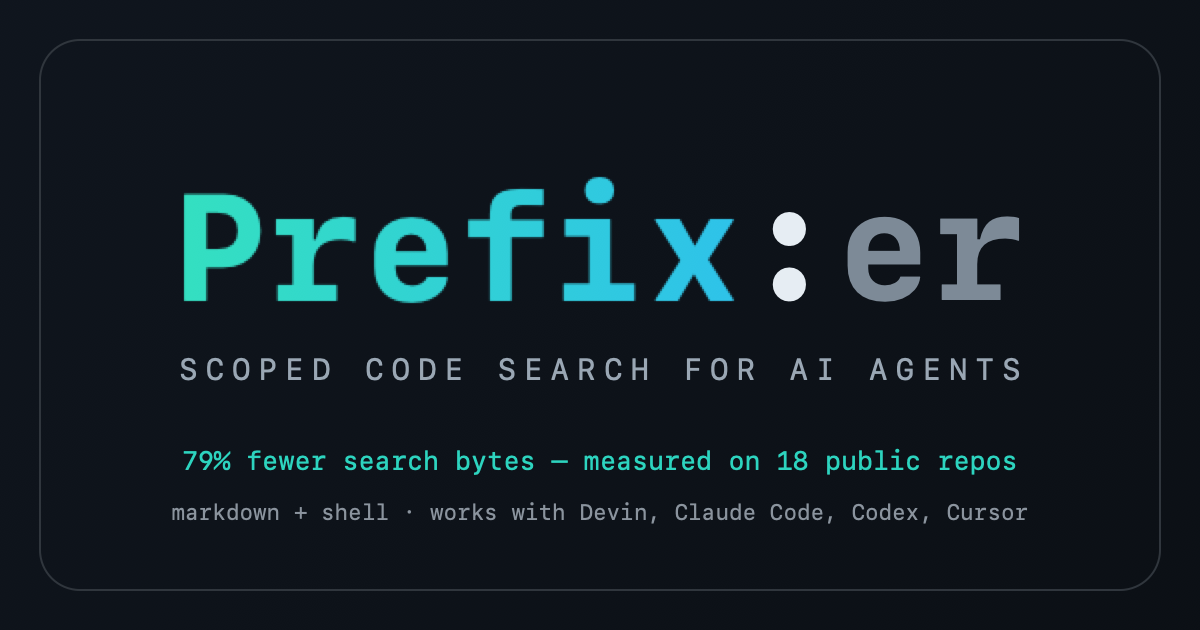
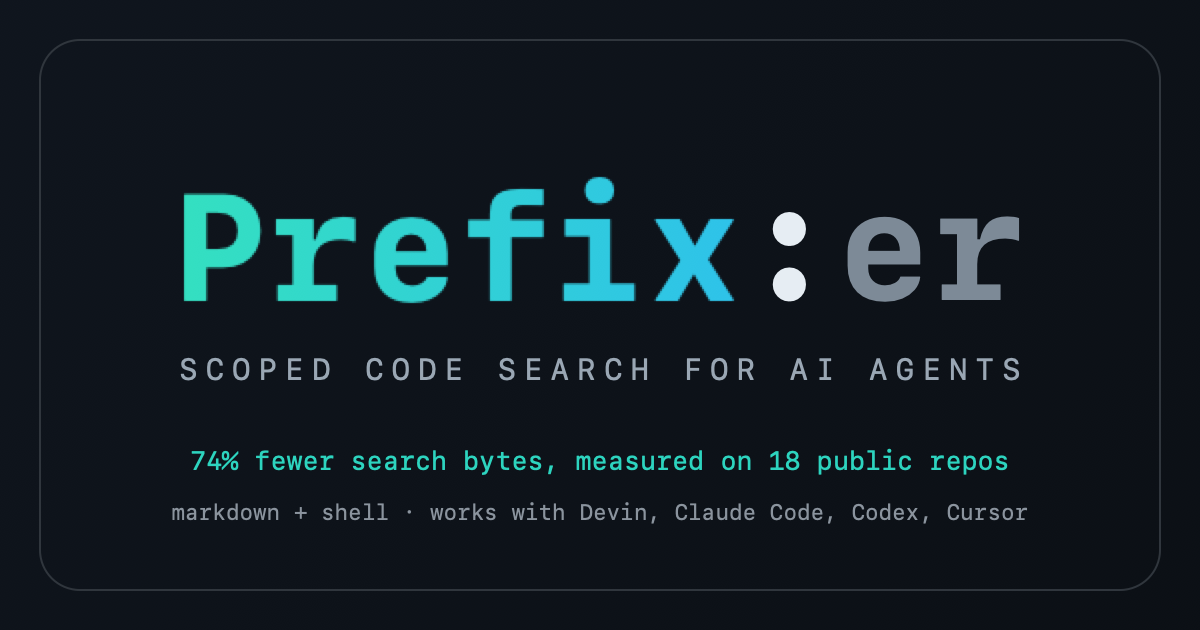
docs: sync the corpus claim with the published eval numbers
README, the landing page, llms.txt, vs-graphify, both eval charts, and the og image all quoted 79% from an older corpus run while the committed eval/RESULTS.md reports 74% (CI refreshes it weekly and never touches marketing copy). Everything now cites the published table: 74% mean, 55-91% range, 135 namespaces, per-repo rows rebuilt. AGENTS.md gains an invariant listing every surface that quotes the corpus so the next refresh does not strand them again.

Changed region(s): [[0.1542, 0.6937, 0.8633, 0.754]]

diff --git a/docs/index.html b/docs/index.html
@@ -3,8 +3,8 @@
 <head>
 <meta charset="utf-8">
 <meta name="viewport" content="width=device-width, initial-scale=1">
-<title>Prefixer: scoped codebase search for AI agents · 79% fewer search tokens</title>
-<meta name="description" content="Prefixer is an open-source agent skill that gives AI coding agents a namespace map for scoped codebase search. Fewer tokens, faster searches: measured 79% mean search bytes saved across 18 public repos. Works with Devin, Windsurf, Claude Code, Codex, and Cursor.">
+<title>Prefixer: scoped codebase search for AI agents · 74% fewer search tokens</title>
+<meta name="description" content="Prefixer is an open-source agent skill that gives AI coding agents a namespace map for scoped codebase search. Fewer tokens, faster searches: measured 74% mean search bytes saved across 18 public repos. Works with Devin, Windsurf, Claude Code, Codex, and Cursor.">
 <meta name="keywords" content="prefixer, agent skill, code search, codebase search, namespace map, AI coding agent, scoped search, token efficiency, reduce agent tokens, prompt caching, Devin skill, Claude Code skill, Cursor skill, Codex skill, Windsurf skill, agent skills, codebase navigation, repo map, graphify alternative, llm token cost">
 <meta name="robots" content="index,follow">
 <meta name="author" content="Albisourous">
@@ -12,12 +12,12 @@
 <link rel="icon" type="image/svg+xml" href="icon.svg">
 <meta property="og:type" content="website">
 <meta property="og:title" content="Prefixer · scoped code search skill for AI agents">
-<meta property="og:description" content="A small namespace map that keeps agent searches inside the right part of the tree. Measured 79% mean search-output bytes saved across an 18-repo public corpus.">
+<meta property="og:description" content="A small namespace map that keeps agent searches inside the right part of the tree. Measured 74% mean search-output bytes saved across an 18-repo public corpus.">
 <meta property="og:url" content="https://albisourous.github.io/prefixer/">
 <meta property="og:image" content="https://albisourous.github.io/prefixer/og-image.png">
 <meta property="og:image:width" content="1200">
 <meta property="og:image:height" content="630">
-<meta property="og:image:alt" content="Prefixer: scoped code search for AI agents. 79% fewer search bytes, measured on 18 public repos.">
+<meta property="og:image:alt" content="Prefixer: scoped code search for AI agents. 74% fewer search bytes, measured on 18 public repos.">
 <meta name="twitter:card" content="summary_large_image">
 <meta name="twitter:title" content="Prefixer · scoped code search skill for AI agents">
 <meta name="twitter:description" content="A namespace map that keeps agent searches inside the right part of the tree. Fewer tool calls, fewer tokens.">
@@ -47,7 +47,7 @@
   "@type": "FAQPage",
   "mainEntity": [
     {"@type": "Question", "name": "How do I reduce token usage in AI coding agents?",
-     "acceptedAnswer": {"@type": "Answer", "text": "Most token waste in agent sessions comes from repo-wide searches dumping irrelevant hits into context. Prefixer gives the agent a namespace map so searches run inside the right directory first. On an 18-repo public corpus it measured 79% mean fewer search-output bytes."}},
+     "acceptedAnswer": {"@type": "Answer", "text": "Most token waste in agent sessions comes from repo-wide searches dumping irrelevant hits into context. Prefixer gives the agent a namespace map so searches run inside the right directory first. On an 18-repo public corpus it measured 74% mean fewer search-output bytes."}},
     {"@type": "Question", "name": "Why does my AI agent read the whole codebase?",
      "acceptedAnswer": {"@type": "Answer", "text": "Because nothing tells it where things live. .prefixer/namespaces.md is that missing file: a short table of prefixes to scopes, derived from the codebase's own vocabulary, that every session reads before searching."}},
     {"@type": "Question", "name": "Does prefixer work with Claude Code, Devin, Codex, Cursor, and Windsurf?",
@@ -57,7 +57,7 @@
     {"@type": "Question", "name": "How is prefixer different from RAG and embeddings?",
      "acceptedAnswer": {"@type": "Answer", "text": "They solve different problems. Prefixer scopes lexical search before it runs; embeddings rank results after retrieval. The index-time prefix playbook in references/ tightens RAG corpora too."}},
     {"@type": "Question", "name": "How much does scoped search actually save?",
-     "acceptedAnswer": {"@type": "Answer", "text": "Measured, not estimated: eval_repo.sh greps every namespace at repo root and inside its scope. Across an 18-repo public corpus, including obra/superpowers, anthropics/skills, and Graphify-Labs/graphify, it saved 79% of output bytes on average, per-repo means 53-92%. The table refreshes weekly in eval/RESULTS.md."}},
+     "acceptedAnswer": {"@type": "Answer", "text": "Measured, not estimated: eval_repo.sh greps every namespace at repo root and inside its scope. Across an 18-repo public corpus, including obra/superpowers, anthropics/skills, and Graphify-Labs/graphify, it saved 74% of output bytes on average, per-repo means 55-91%. The table refreshes weekly in eval/RESULTS.md."}},
     {"@type": "Question", "name": "How is prefixer different from graphify or a skills pack?",
      "acceptedAnswer": {"@type": "Answer", "text": "Graphify builds a persistent queryable knowledge graph of a codebase, the right tool for 'how does X connect to Y' questions. Prefixer answers a smaller question (which directory should this search hit first) with a 12-line file, no install, no pipeline. Skills packs (superpowers, mattpocock/skills, agent-skills) bundle many skills; prefixer is one skill doing one job. They stack together."}}
   ]
@@ -163,8 +163,8 @@ any agent that reads skills:
 <a href="https://devin.ai">Devin</a>, Claude Code, Codex, Cursor, Windsurf, and friends.</p>
 
 <div class="stats">
-  <div class="stat"><strong>79%</strong><span>mean search bytes saved, 18-repo corpus</span></div>
-  <div class="stat"><strong>149</strong><span>namespaces measured, incl. top skill repos</span></div>
+  <div class="stat"><strong>74%</strong><span>mean search bytes saved, 18-repo corpus</span></div>
+  <div class="stat"><strong>135</strong><span>namespaces measured, incl. top skill repos</span></div>
   <div class="stat"><strong>0</strong><span>dependencies: markdown and shell</span></div>
 </div>
 
@@ -202,31 +202,31 @@ any agent that reads skills:
 
 <h2>Measured on public repos, including the skill repos agents install</h2>
 
-<img src="eval-chart.svg" alt="Measured mean search bytes saved per repo across 18 public repos, 53 to 92%" width="720" style="max-width:100%;height:auto;margin:0 0 16px">
+<img src="eval-chart.svg" alt="Measured mean search bytes saved per repo across 18 public repos, 55 to 91%" width="720" style="max-width:100%;height:auto;margin:0 0 16px">
 
 <table>
   <tr><th>repo</th><th>shape</th><th>namespaces</th><th>mean saved</th><th>range</th></tr>
-  <tr><td><a href="https://github.com/obra/superpowers">obra/superpowers</a></td><td>skills-pack</td><td>5</td><td>85%</td><td>70-98%</td></tr>
-  <tr><td><a href="https://github.com/mattpocock/skills">mattpocock/skills</a></td><td>skills-pack</td><td>9</td><td>91%</td><td>55-99%</td></tr>
-  <tr><td><a href="https://github.com/anthropics/skills">anthropics/skills</a></td><td>skills-pack</td><td>11</td><td>72%</td><td>14-99%</td></tr>
-  <tr><td><a href="https://github.com/addyosmani/agent-skills">addyosmani/agent-skills</a></td><td>skills-pack</td><td>8</td><td>85%</td><td>66-98%</td></tr>
-  <tr><td><a href="https://github.com/blader/humanizer">blader/humanizer</a></td><td>agent-skill</td><td>2</td><td>85%</td><td>84-87%</td></tr>
-  <tr><td><a href="https://github.com/Graphify-Labs/graphify">Graphify-Labs/graphify</a></td><td>knowledge-graph</td><td>11</td><td>81%</td><td>15-99%</td></tr>
-  <tr><td><a href="https://github.com/DietrichGebert/ponytail">DietrichGebert/ponytail</a></td><td>web-app</td><td>8</td><td>92%</td><td>77-99%</td></tr>
-  <tr><td><a href="https://github.com/expressjs/express">expressjs/express</a></td><td>web-framework</td><td>8</td><td>80%</td><td>12-97%</td></tr>
-  <tr><td><a href="https://github.com/psf/requests">psf/requests</a></td><td>python-library</td><td>7</td><td>69%</td><td>2-99%</td></tr>
-  <tr><td><a href="https://github.com/BurntSushi/ripgrep">BurntSushi/ripgrep</a></td><td>rust-cli</td><td>9</td><td>70%</td><td>0-99%</td></tr>
-  <tr><td><a href="https://github.com/shadcn-ui/ui">shadcn-ui/ui</a></td><td>monorepo</td><td>7</td><td>75%</td><td>8-99%</td></tr>
-  <tr><td><a href="https://github.com/rust-lang/book">rust-lang/book</a></td><td>docs-site</td><td>7</td><td>66%</td><td>7-99%</td></tr>
-  <tr><td><a href="https://github.com/cli/cli">cli/cli</a></td><td>go-cli</td><td>11</td><td>88%</td><td>39-99%</td></tr>
-  <tr><td><a href="https://github.com/pallets/flask">pallets/flask</a></td><td>python-web</td><td>11</td><td>75%</td><td>38-97%</td></tr>
-  <tr><td><a href="https://github.com/fastapi/fastapi">fastapi/fastapi</a></td><td>python-web</td><td>10</td><td>87%</td><td>12-99%</td></tr>
-  <tr><td><a href="https://github.com/spf13/cobra">spf13/cobra</a></td><td>go-cli-lib</td><td>3</td><td>81%</td><td>58-95%</td></tr>
-  <tr><td><a href="https://github.com/tokio-rs/tokio">tokio-rs/tokio</a></td><td>rust-async</td><td>11</td><td>86%</td><td>45-99%</td></tr>
-  <tr><td><a href="https://github.com/google/gson">google/gson</a></td><td>java-library</td><td>11</td><td>57%</td><td>3-90%</td></tr>
+  <tr><td><a href="https://github.com/obra/superpowers">obra/superpowers</a></td><td>skills-pack</td><td>8</td><td>77%</td><td>59-95%</td></tr>
+  <tr><td><a href="https://github.com/mattpocock/skills">mattpocock/skills</a></td><td>skills-pack</td><td>8</td><td>83%</td><td>52-98%</td></tr>
+  <tr><td><a href="https://github.com/anthropics/skills">anthropics/skills</a></td><td>skills-pack</td><td>9</td><td>55%</td><td>4-99%</td></tr>
+  <tr><td><a href="https://github.com/addyosmani/agent-skills">addyosmani/agent-skills</a></td><td>skills-pack</td><td>7</td><td>88%</td><td>67-98%</td></tr>
+  <tr><td><a href="https://github.com/blader/humanizer">blader/humanizer</a></td><td>agent-skill</td><td>3</td><td>90%</td><td>86-94%</td></tr>
+  <tr><td><a href="https://github.com/Graphify-Labs/graphify">Graphify-Labs/graphify</a></td><td>knowledge-graph</td><td>10</td><td>78%</td><td>0-99%</td></tr>
+  <tr><td><a href="https://github.com/DietrichGebert/ponytail">DietrichGebert/ponytail</a></td><td>web-app</td><td>8</td><td>91%</td><td>76-99%</td></tr>
+  <tr><td><a href="https://github.com/expressjs/express">expressjs/express</a></td><td>web-framework</td><td>3</td><td>60%</td><td>11-86%</td></tr>
+  <tr><td><a href="https://github.com/psf/requests">psf/requests</a></td><td>python-library</td><td>5</td><td>74%</td><td>40-99%</td></tr>
+  <tr><td><a href="https://github.com/BurntSushi/ripgrep">BurntSushi/ripgrep</a></td><td>rust-cli</td><td>10</td><td>65%</td><td>17-99%</td></tr>
+  <tr><td><a href="https://github.com/shadcn-ui/ui">shadcn-ui/ui</a></td><td>monorepo</td><td>9</td><td>68%</td><td>10-99%</td></tr>
+  <tr><td><a href="https://github.com/rust-lang/book">rust-lang/book</a></td><td>docs-site</td><td>2</td><td>66%</td><td>34-98%</td></tr>
+  <tr><td><a href="https://github.com/cli/cli">cli/cli</a></td><td>go-cli</td><td>10</td><td>76%</td><td>22-99%</td></tr>
+  <tr><td><a href="https://github.com/pallets/flask">pallets/flask</a></td><td>python-web</td><td>11</td><td>77%</td><td>29-99%</td></tr>
+  <tr><td><a href="https://github.com/fastapi/fastapi">fastapi/fastapi</a></td><td>python-web</td><td>7</td><td>76%</td><td>12-99%</td></tr>
+  <tr><td><a href="https://github.com/spf13/cobra">spf13/cobra</a></td><td>go-cli-lib</td><td>4</td><td>85%</td><td>67-95%</td></tr>
+  <tr><td><a href="https://github.com/tokio-rs/tokio">tokio-rs/tokio</a></td><td>rust-async</td><td>10</td><td>71%</td><td>27-99%</td></tr>
+  <tr><td><a href="https://github.com/google/gson">google/gson</a></td><td>java-library</td><td>11</td><td>59%</td><td>2-99%</td></tr>
 </table>
 
-<p class="muted">Corpus mean: <strong>79%</strong> across 18 repos, 149
+<p class="muted">Corpus mean: <strong>74%</strong> across 18 repos, 135
 namespaces. Regenerated weekly from <code>eval/repos.txt</code> by CI;
 full table and method in
 <a href="https://github.com/Albisourous/prefixer/blob/main/eval/RESULTS.md">eval/RESULTS.md</a>.</p>
@@ -320,7 +320,7 @@ and RadixAttention.
   <p>Most token waste in agent sessions comes from repo-wide searches
   dumping irrelevant hits into context. Prefixer gives the agent a
   namespace map so searches run inside the right directory first. On
-  an 18-repo public corpus it measured a mean 79% fewer search-output
+  an 18-repo public corpus it measured a mean 74% fewer search-output
   bytes.</p>
 </details>
 <details>
@@ -354,7 +354,7 @@ and RadixAttention.
   <p>Measured, not estimated: <code>eval_repo.sh</code> greps every
   namespace at repo root and inside its scope. Across an 18-repo public
   corpus, including the skill repos agents install most, it saved a
-  mean 79% of output bytes, per-repo means 53-92%. Your repo's number is
+  mean 74% of output bytes, per-repo means 55-91%. Your repo's number is
   one command away.</p>
 </details>
 <details>

diff --git a/README.md b/README.md
@@ -6,7 +6,7 @@
 
 An agent skill for scoped codebase search. It gives agents a small
 namespace map so searches stay in the right part of the tree, which means
-fewer tokens spent on irrelevant hits: **79% of search-output bytes
+fewer tokens spent on irrelevant hits: **74% of search-output bytes
 saved, measured across 18 public repos.** Works with Devin, Windsurf,
 Claude Code, Codex, Cursor, and other agents that read skills. `references/` also ships
 playbooks for index-time doc prefixes and prompt-cache ordering.
@@ -78,17 +78,17 @@ same grep at repo root and inside the namespace's globs. `eval/run.sh`
 does that weekly over an 18-repo corpus and commits the table, so the
 claim stays honest as the scaffold changes:
 
-<img src="assets/eval-chart.svg" alt="Measured mean search bytes saved per repo across 18 public repos, 53 to 92%" width="720">
+<img src="assets/eval-chart.svg" alt="Measured mean search bytes saved per repo across 18 public repos, 55 to 91%" width="720">
 
 | repo | shape | mean bytes saved |
 |---|---|---|
-| DietrichGebert/ponytail | web-app | **92%** |
-| mattpocock/skills | skills-pack | **91%** |
-| cli/cli | go-cli | **88%** |
-| fastapi/fastapi | python-web | **87%** |
-| tokio-rs/tokio | rust-async | **86%** |
-| obra/superpowers | skills-pack | **85%** |
-| **18-repo corpus mean** | | **79%** |
+| DietrichGebert/ponytail | web-app | **91%** |
+| blader/humanizer | agent-skill | **90%** |
+| addyosmani/agent-skills | skills-pack | **88%** |
+| spf13/cobra | go-cli-lib | **85%** |
+| mattpocock/skills | skills-pack | **83%** |
+| Graphify-Labs/graphify | knowledge-graph | **78%** |
+| **18-repo corpus mean** | | **74%** |
 
 The corpus runs on the skill repos agents actually install, plus cli/cli,
 ponytail, ripgrep, shadcn-ui/ui, express, rust-lang/book, and requests.

diff --git a/improve/LEDGER.md b/improve/LEDGER.md
@@ -42,3 +42,4 @@ calls mapped vs unmapped on a ~140-file fixture.
 | 18 | verify | agent eval `--reps 1` post-rewrite smoke run | harness green; noisy metrics | keep | mapped arm: 4.5 vs 7.8 calls, total bytes 50% smaller; search bytes +82%, first-try 13% (1 rep, stochastic; RESULTS.md appended like upstream's refresh commits) |
 | 19 | fix | docs/index.html drifted from live output + agent-note | stale `pct` header, old n/a text, no eval_repo in agent instructions | fixed | sample table re-headed `pct_saved`, footer matches live string, agent-note ends on eval_repo |
 | 20 | report | five-minute maintainer summary per PROMPT | `improve/REPORT.md` | keep | direction, per-stage changes, numbers, residuals |
+| 21 | fix | marketing claims drifted from the published corpus: 79% quoted, RESULTS.md says 74% | stale across README, docs, assets; CI only refreshes RESULTS.md | fixed | mean 79→74, range 53-92→55-91, ns 149→135, per-repo rows rebuilt from RESULTS.md, both eval-chart.svg regenerated, og-image.png re-rendered from its SVG source, AGENTS.md invariant added so the coupling survives the next refresh |

diff --git a/AGENTS.md b/AGENTS.md
@@ -37,6 +37,11 @@ the prompt agents read, and the source of truth. There is no build step.
   must exist.
 - **Portability:** no instructions that assume one agent tool.
 - **Sync:** keep SKILL.md and README.md claims consistent.
+- **Corpus numbers:** README.md, `docs/`, and `assets/` quote
+  `eval/RESULTS.md`, which CI refreshes weekly. When the corpus
+  numbers change, update the mean, the per-repo rows, the namespace
+  count, the min-max range, `eval-chart.svg`, and `og-image` text
+  together.
 
 ## Writing style
 

diff --git a/docs/vs-graphify.md b/docs/vs-graphify.md
@@ -23,7 +23,7 @@ codebases. They attack different halves of the problem:
 ## The honest overlap
 
 graphify's README pitches "cut agent token spend by 80%". Prefixer
-measures 79% mean bytes saved across its 18-repo corpus (81%
+measures 74% mean bytes saved across its 18-repo corpus (78%
 specifically on Graphify-Labs/graphify). These are not contradictory;
 they are different denominators:
 
